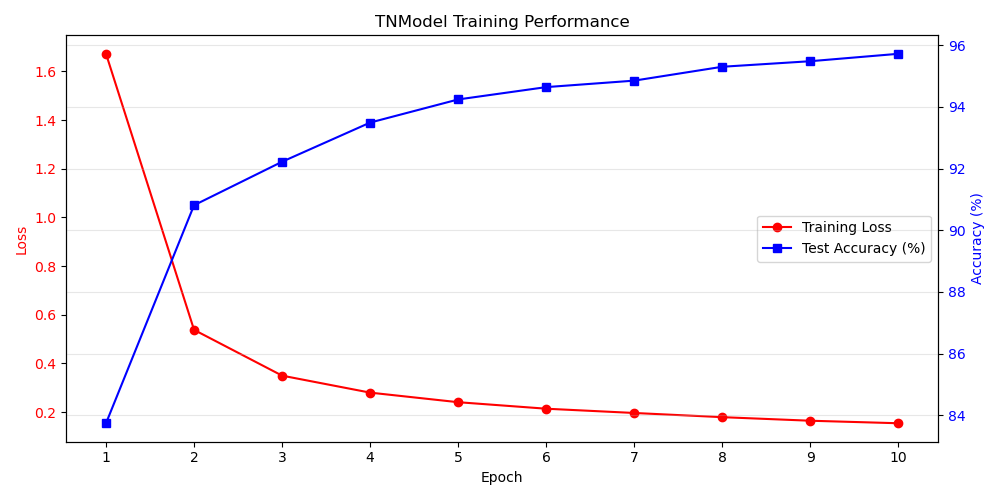
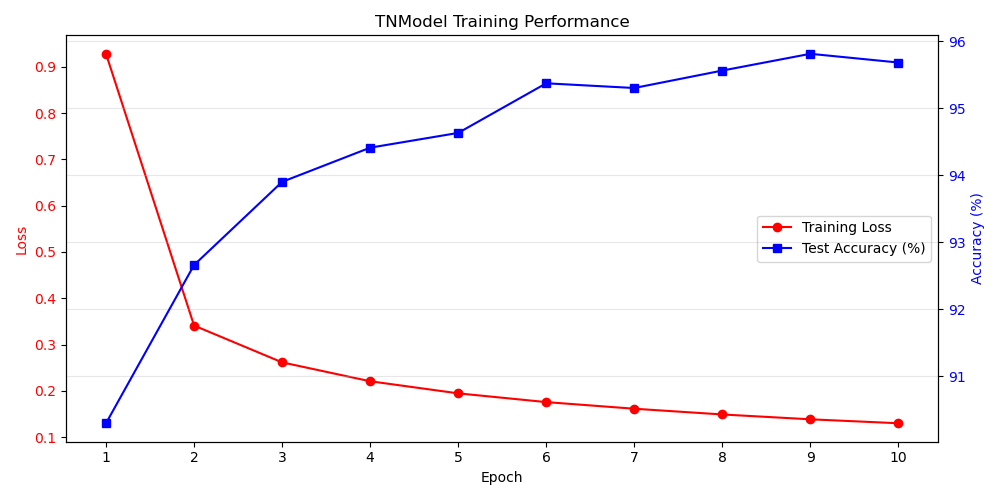
IT DOES LEARN, IT DOES GODDAMN IT

diff --git a/test_grad.py b/test_grad.py
@@ -1,21 +1,91 @@
 import torch
 import torch.nn as nn
 import torch.optim as optim
-from torchvision import datasets, transforms
+import torchvision
+import torchvision.transforms as transforms
+from torch.nn import functional as F
 import quimb.tensor as qt
 from tqdm import tqdm
+import matplotlib.pyplot as plt
 
-# --- 1. The Model (Kept as requested, with minor list fix in forward) ---
+# Use float32 for CPU stability
+torch.set_default_dtype(torch.float32)
+
+# --- 1. User's Data Preprocessing (CPU Version) ---
+
+print("Loading and processing data on CPU...")
+
+transform = transforms.Compose([
+    transforms.ToTensor(),
+    transforms.Normalize((0.1307,), (0.3081,))
+])
+
+# Load Raw Data
+train_dataset = torchvision.datasets.MNIST(root="./data", train=True, transform=transform, download=True)
+train_loader_raw = torch.utils.data.DataLoader(train_dataset, batch_size=64, shuffle=True)
+
+# Process Train
+train_samples = []
+train_labels = []
+for images, labels in train_loader_raw:
+    train_samples.append(images)
+    train_labels.append(labels)
+xinp_train = torch.cat(train_samples, dim=0)
+y_train = torch.cat(train_labels, dim=0)
+
+KERNEL_SIZE = 4
+STRIDE = 4
+
+# Unfold and Transpose -> (Batch, Num_Patches, Pixels_Per_Patch)
+xinp_train = F.unfold(xinp_train, kernel_size=(KERNEL_SIZE,KERNEL_SIZE), stride=(STRIDE,STRIDE), padding=0).transpose(-2, -1)
+
+# Pad Patches (Dim -2): 49 -> 50
+xinp_train = torch.cat((xinp_train, torch.zeros((xinp_train.shape[0], 1, xinp_train.shape[2]))), dim=-2)
+# Pad Pixels (Dim -1): 16 -> 17
+xinp_train = torch.cat((xinp_train, torch.zeros((xinp_train.shape[0], xinp_train.shape[1], 1))), dim=-1)
+
+# Set corner
+xinp_train[..., -1, -1] = 1.0
+# Labels (CPU)
+y_train_indices = y_train
+
+# Process Test
+test_dataset = torchvision.datasets.MNIST(root="./data", train=False, transform=transform, download=True)
+test_loader_raw = torch.utils.data.DataLoader(test_dataset, batch_size=64, shuffle=True)
+test_samples = []
+test_labels = []
+for images, labels in test_loader_raw:
+    test_samples.append(images)
+    test_labels.append(labels)
+xinp_test = torch.cat(test_samples, dim=0)
+y_test = torch.cat(test_labels, dim=0)
+
+xinp_test = F.unfold(xinp_test, kernel_size=(KERNEL_SIZE,KERNEL_SIZE), stride=(STRIDE,STRIDE), padding=0).transpose(-2, -1)
+xinp_test = torch.cat((xinp_test, torch.zeros((xinp_test.shape[0], 1, xinp_test.shape[2]))), dim=-2)
+xinp_test = torch.cat((xinp_test, torch.zeros((xinp_test.shape[0], xinp_test.shape[1], 1))), dim=-1)
+xinp_test[..., -1, -1] = 1.0
+y_test_indices = y_test
+
+print(f"Data shape: {xinp_train.shape}") # Expected: (60000, 50, 17)
+
+# Create DataLoaders
+BATCH_SIZE = 100
+train_ds = torch.utils.data.TensorDataset(xinp_train, y_train_indices)
+test_ds = torch.utils.data.TensorDataset(xinp_test, y_test_indices)
+
+train_loader = torch.utils.data.DataLoader(train_ds, batch_size=BATCH_SIZE, shuffle=True)
+test_loader = torch.utils.data.DataLoader(test_ds, batch_size=BATCH_SIZE, shuffle=False)
+
+
+# --- 2. The TN Model Class ---
+
 class TNModel(nn.Module):
     def __init__(self, tn_pixels, tn_patches, output_dims, input_dims):
         super().__init__()
         
-        # Pack parameters
-        # tn_pixels and tn_patches must be TensorNetwork objects, not lists
         params_pixel, self.skeleton_pixels = qt.pack(tn_pixels)
         params_patches, self.skeleton_patches = qt.pack(tn_patches)
 
-        # Initialize Parameters
         self.torch_params_pixels = nn.ParameterDict({
             str(i): nn.Parameter(initial) for i, initial in params_pixel.items()
         })
@@ -27,88 +97,67 @@ class TNModel(nn.Module):
         self.output_dims = output_dims
 
     def forward(self, x):
-        # Unpack Pixels
+        # Unpack parameters
         params_pixels = {int(i): p for i, p in self.torch_params_pixels.items()}
         pixels = qt.unpack(params_pixels, self.skeleton_pixels)
         
-        # Unpack Patches
         params_patches = {int(i): p for i, p in self.torch_params_patches.items()}
         patches = qt.unpack(params_patches, self.skeleton_patches)
         
-        # Create Input Nodes
+        # Construct Input Nodes
         input_nodes_list = self.construct_nodes(x)
-        
-        # Convert list to TN so we can use '&'
         input_tn = qt.TensorNetwork(input_nodes_list)
 
-        # Contract
+        # Contract: Pixels & Patches & Input
         tn = pixels & patches & input_tn
-        out = tn.contract(output_inds=self.output_dims, optimize='auto-hq')
         
+        # Contract and return raw data
+        out = tn.contract(output_inds=self.output_dims, optimize='auto-hq')
         return out.data
 
     def construct_nodes(self, x):
         input_nodes = []
-        for idx, i in enumerate(self.input_dims):
-            a = qt.Tensor(x[:, idx], inds=["s", f"{i}_pixels", f"{i}_patches"], tags=f"Input_{i}")
+        for i in self.input_dims:
+            # Data shape is (Batch, Patches, Pixels) -> (B, 50, 17)
+            # Indices: ["s", "patches_dim", "pixels_dim"]
+            a = qt.Tensor(x, inds=["s", f"{i}_patches", f"{i}_pixels"], tags=f"Input_{i}")
             input_nodes.append(a)
         return input_nodes
 
-# --- 2. Data Preparation ---
-
-BATCH_SIZE = 1000
-BLOCKS = 3
-DIM_P = 16       
-DIM_PT = 16 
-TARGET_SIZE = BLOCKS * DIM_P * DIM_PT # 768
-
-def reshape_and_pad(x):
-    x = x.view(-1)[:TARGET_SIZE] 
-    x = x.view(BLOCKS, DIM_P, DIM_PT)
-    x = torch.nn.functional.pad(x, (0, 1, 0, 1)) 
-    x[..., -1, -1] = 1.0
-    return x
-
-transform = transforms.Compose([
-    transforms.ToTensor(),
-    transforms.Lambda(reshape_and_pad)
-])
-
-train_dataset = datasets.MNIST('./data', train=True, download=True, transform=transform)
-test_dataset = datasets.MNIST('./data', train=False, download=True, transform=transform)
-
-train_loader = torch.utils.data.DataLoader(train_dataset, batch_size=BATCH_SIZE, shuffle=True)
-test_loader = torch.utils.data.DataLoader(test_dataset, batch_size=BATCH_SIZE, shuffle=False)
 
 # --- 3. Manual Tensor Construction ---
 
-bond_dim = 12
-phys_dim_p = DIM_P + 1   # 17
-phys_dim_pt = DIM_PT + 1 # 17
+# Derived Dimensions from your data
+DIM_PATCHES = xinp_train.shape[1] # 50
+DIM_PIXELS = xinp_train.shape[2]  # 17
 
+bond_dim = 8
+
+# Helper for init
 def init_data(*shape):
     return torch.randn(*shape) * 0.1
 
-# === A. Define Pixels Tensors ===
+# === A. Pixels MPS ===
+# Interactions with Inner Dimension (Size 17)
 pixels_mps_list = [
-    qt.Tensor(data=init_data(1, phys_dim_p, bond_dim), inds=["_null_p_l", "0_pixels", "bond_p_01"], tags=["PIXELS", "0"]),
-    qt.Tensor(data=init_data(bond_dim, phys_dim_p, bond_dim, 10), inds=["bond_p_01", "1_pixels", "bond_p_12", "class_out"], tags=["PIXELS", "1", "OUTPUT"]),
-    qt.Tensor(data=init_data(bond_dim, phys_dim_p, 1), inds=["bond_p_12", "2_pixels", "_null_p_r"], tags=["PIXELS", "2"])
+    qt.Tensor(data=init_data(1, DIM_PIXELS, bond_dim), inds=["_null_p_l", "0_pixels", "bond_p_01"], tags=["PIXELS", "0"]),
+    qt.Tensor(data=init_data(bond_dim, DIM_PIXELS, bond_dim, 10), inds=["bond_p_01", "1_pixels", "bond_p_12", "class_out"], tags=["PIXELS", "1", "OUTPUT"]),
+    qt.Tensor(data=init_data(bond_dim, DIM_PIXELS, 1), inds=["bond_p_12", "2_pixels", "_null_p_r"], tags=["PIXELS", "2"])
 ]
 
-# === B. Define Patches Tensors ===
+# === B. Patches MPS ===
+# Interactions with Outer Dimension (Size 50)
 patches_mps_list = [
-    qt.Tensor(data=init_data(1, phys_dim_pt, bond_dim), inds=["_null_pt_l", "0_patches", "bond_pt_01"], tags=["PATCHES", "0"]),
-    qt.Tensor(data=init_data(bond_dim, phys_dim_pt, bond_dim), inds=["bond_pt_01", "1_patches", "bond_pt_12"], tags=["PATCHES", "1"]),
-    qt.Tensor(data=init_data(bond_dim, phys_dim_pt, 1), inds=["bond_pt_12", "2_patches", "_null_pt_r"], tags=["PATCHES", "2"])
+    qt.Tensor(data=init_data(bond_dim, DIM_PATCHES, bond_dim), inds=["r1", "0_patches", "bond_pt_01"], tags=["PATCHES", "0"]),
+    qt.Tensor(data=init_data(bond_dim, DIM_PATCHES, bond_dim), inds=["bond_pt_01", "1_patches", "bond_pt_12"], tags=["PATCHES", "1"]),
+    qt.Tensor(data=init_data(bond_dim, DIM_PATCHES, bond_dim), inds=["bond_pt_12", "2_patches", "r1"], tags=["PATCHES", "2"])
 ]
 
 # --- 4. Initialize & Train ---
 
-device = torch.device("cuda" if torch.cuda.is_available() else "cpu")
+device = torch.device("cpu")
 input_labels = ["0", "1", "2"] 
 
-# !!! FIX HERE: Wrap the lists in qt.TensorNetwork() !!!
 model = TNModel(
     tn_pixels=qt.TensorNetwork(pixels_mps_list), 
     tn_patches=qt.TensorNetwork(patches_mps_list), 
@@ -119,22 +168,13 @@ model = TNModel(
 optimizer = optim.AdamW(model.parameters(), lr=1e-3)
 criterion = nn.CrossEntropyLoss()
 
-import matplotlib.pyplot as plt
+# --- Training Loop ---
 
-# ... (Previous code: Imports, Model Class, Data Prep, Model Init) ...
+history = {'epoch': [], 'loss': [], 'accuracy': []}
+epochs = 5
 
-# --- 5. Training with History & Plotting ---
+print(f"Model initialized on {device}. Input: {DIM_PATCHES} Patches x {DIM_PIXELS} Pixels.")
 
-# Store history
-history = {
-    'epoch': [],
-    'loss': [],
-    'accuracy': []
-}
-
-epochs = 10
-print(f"Model initialized on {device}. Starting training...")
-# Define Evaluate
 def evaluate(loader):
     model.eval()
     correct = 0
@@ -143,7 +183,6 @@ def evaluate(loader):
         for data, target in loader:
             data, target = data.to(device), target.to(device)
             output = model(data)
-            # output is a raw tensor now
             pred = output.argmax(dim=1)
             correct += (pred == target).sum().item()
             total += target.size(0)
@@ -166,45 +205,34 @@ for epoch in range(epochs):
         running_loss += loss.item()
         pbar.set_postfix({'loss': f"{loss.item():.4f}"})
     
-    # Calculate average loss for the epoch
     avg_loss = running_loss / len(train_loader)
-    
-    # Evaluate
     acc = evaluate(test_loader)
     print(f"Epoch {epoch+1} Test Accuracy: {acc*100:.2f}%")
     
-    # Store metrics
     history['epoch'].append(epoch + 1)
     history['loss'].append(avg_loss)
     history['accuracy'].append(acc * 100)
 
-# --- 6. Visualization ---
+# --- Visualization ---
 
 plt.figure(figsize=(10, 5))
-
-# Plot Loss
 ax1 = plt.gca()
 l1, = ax1.plot(history['epoch'], history['loss'], 'r-o', label='Training Loss')
 ax1.set_xlabel('Epoch')
 ax1.set_ylabel('Loss', color='r')
 ax1.tick_params(axis='y', labelcolor='r')
-ax1.set_xticks(history['epoch']) # Ensure integer ticks for epochs
+ax1.set_xticks(history['epoch'])
 
-# Create a twin axis for Accuracy
 ax2 = ax1.twinx()
 l2, = ax2.plot(history['epoch'], history['accuracy'], 'b-s', label='Test Accuracy (%)')
 ax2.set_ylabel('Accuracy (%)', color='b')
 ax2.tick_params(axis='y', labelcolor='b')
 
-# Add legend
 lines = [l1, l2]
 ax1.legend(lines, [l.get_label() for l in lines], loc='center right')
 
 plt.title('TNModel Training Performance')
 plt.grid(True, alpha=0.3)
 plt.tight_layout()
-
-# Save and Show
 plt.savefig('training_plot.png')
 print("Plot saved to 'training_plot.png'")
-plt.show()
